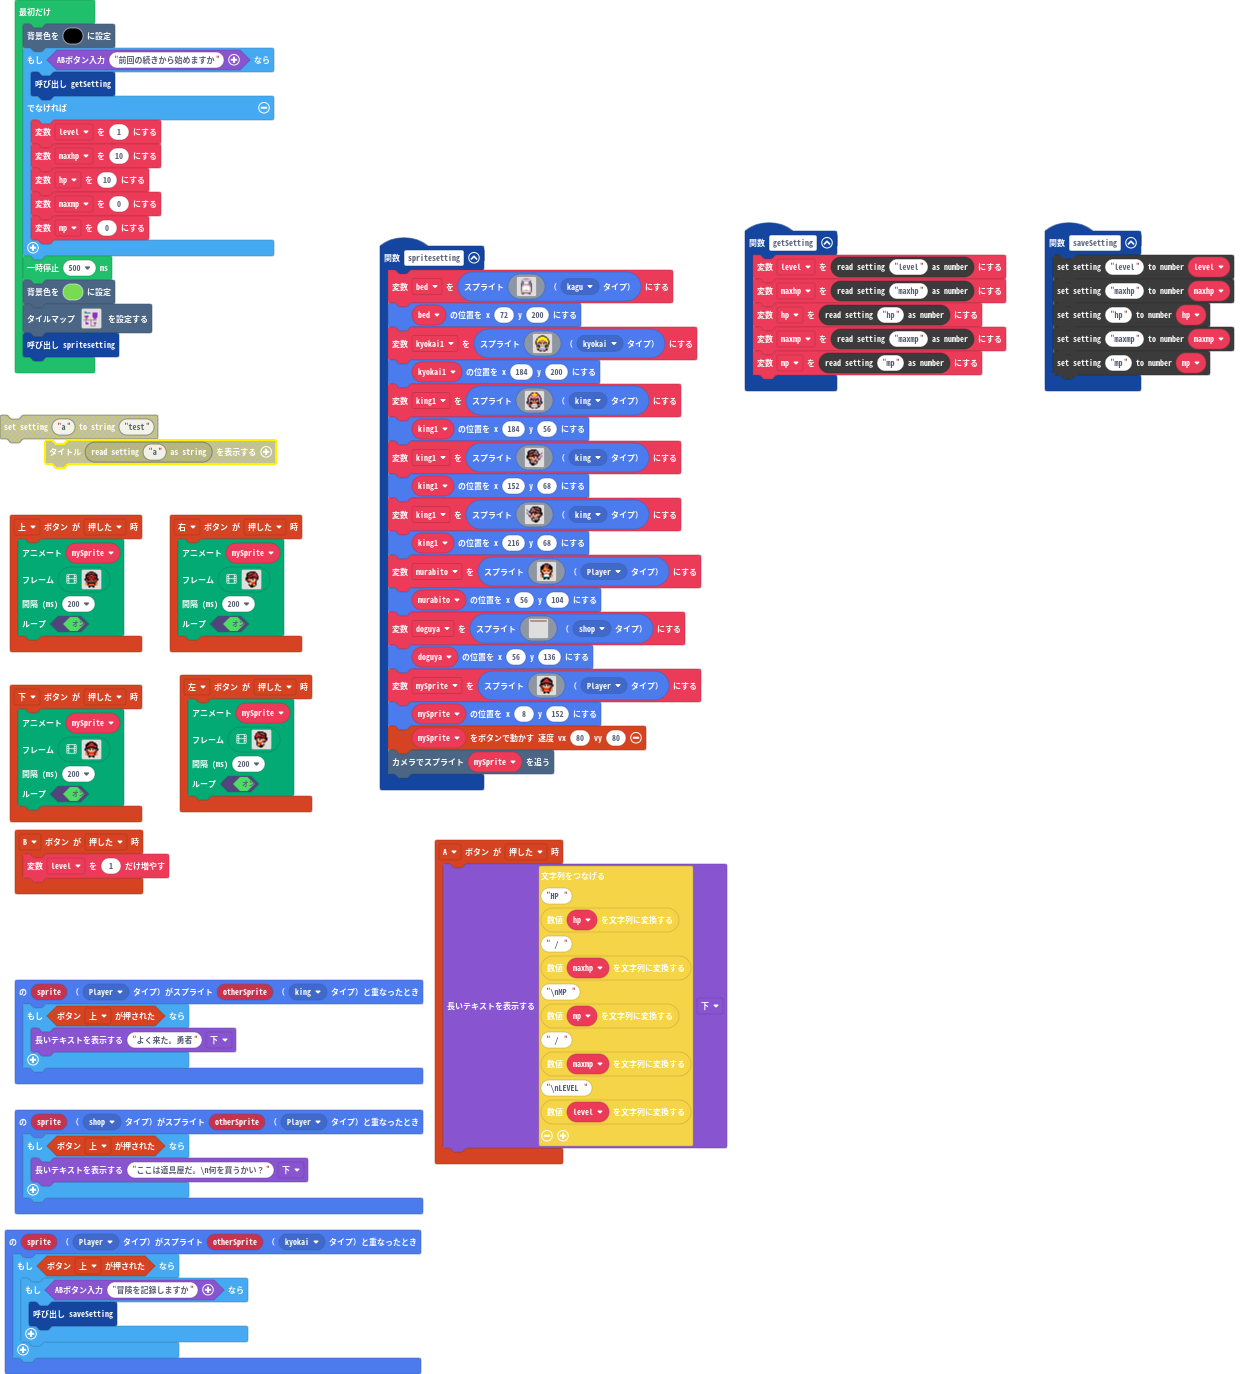
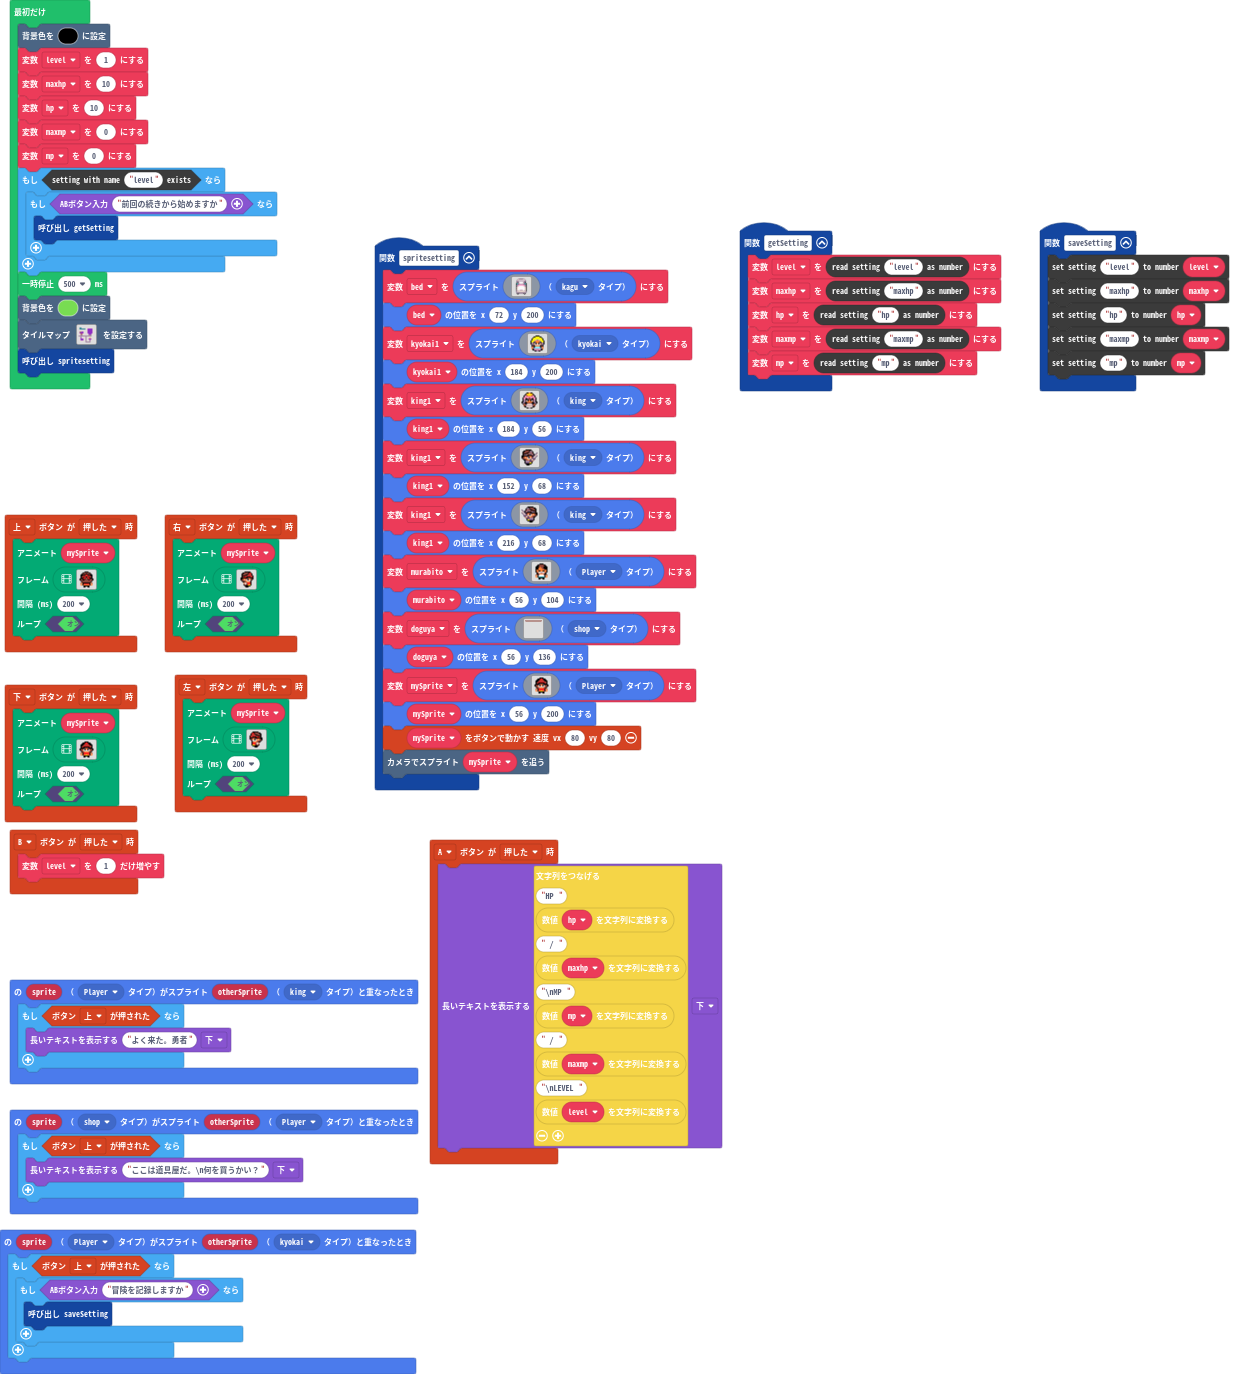
更新 main.blocks, main.ts

diff --git a/main.ts b/main.ts
@@ -247,7 +247,7 @@ function spritesetting () {
         . . . . . f f f f f f . . . . . 
         . . . . . f f . . f f . . . . . 
         `, SpriteKind.Player)
-    mySprite.setPosition(8, 152)
+    mySprite.setPosition(56, 200)
     controller.moveSprite(mySprite, 80, 80)
     scene.cameraFollowSprite(mySprite)
 }
@@ -521,14 +521,15 @@ let hp = 0
 let maxhp = 0
 let level = 0
 scene.setBackgroundColor(15)
-if (game.ask("前回の続きから始めますか")) {
-    getSetting()
-} else {
-    level = 1
-    maxhp = 10
-    hp = 10
-    maxmp = 0
-    mp = 0
+level = 1
+maxhp = 10
+hp = 10
+maxmp = 0
+mp = 0
+if (blockSettings.exists("level")) {
+    if (game.ask("前回の続きから始めますか")) {
+        getSetting()
+    }
 }
 pause(500)
 scene.setBackgroundColor(7)
